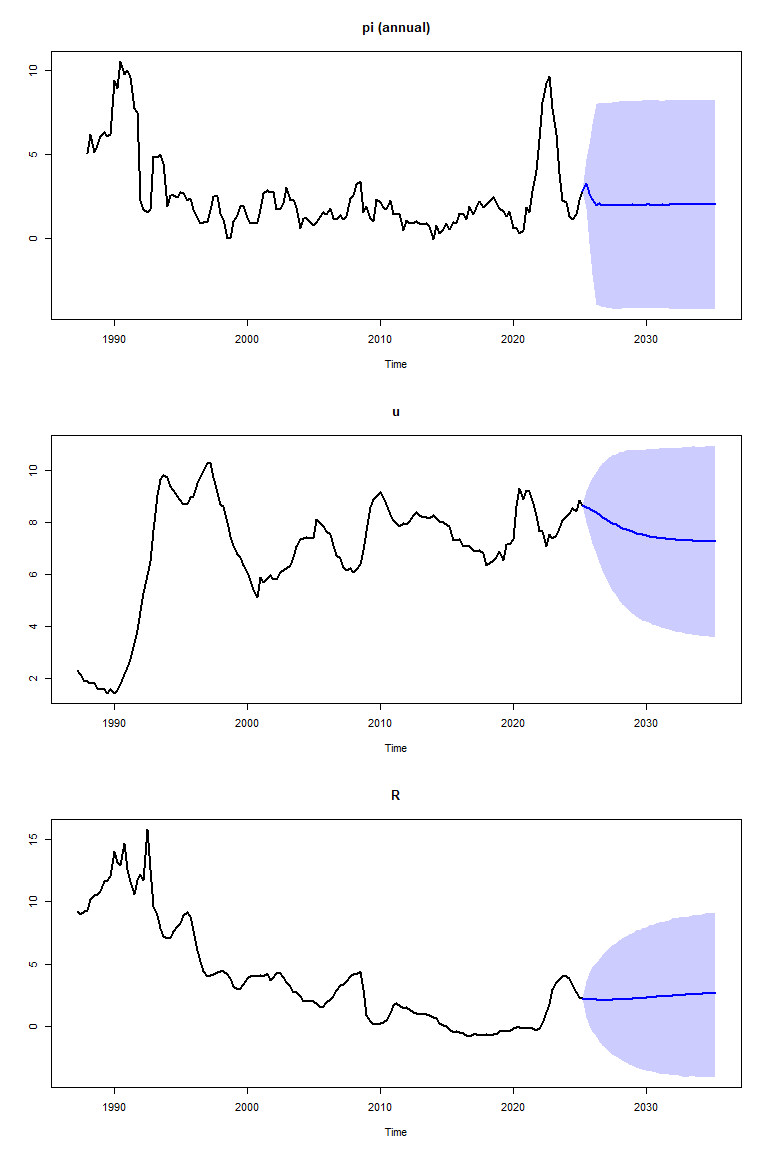
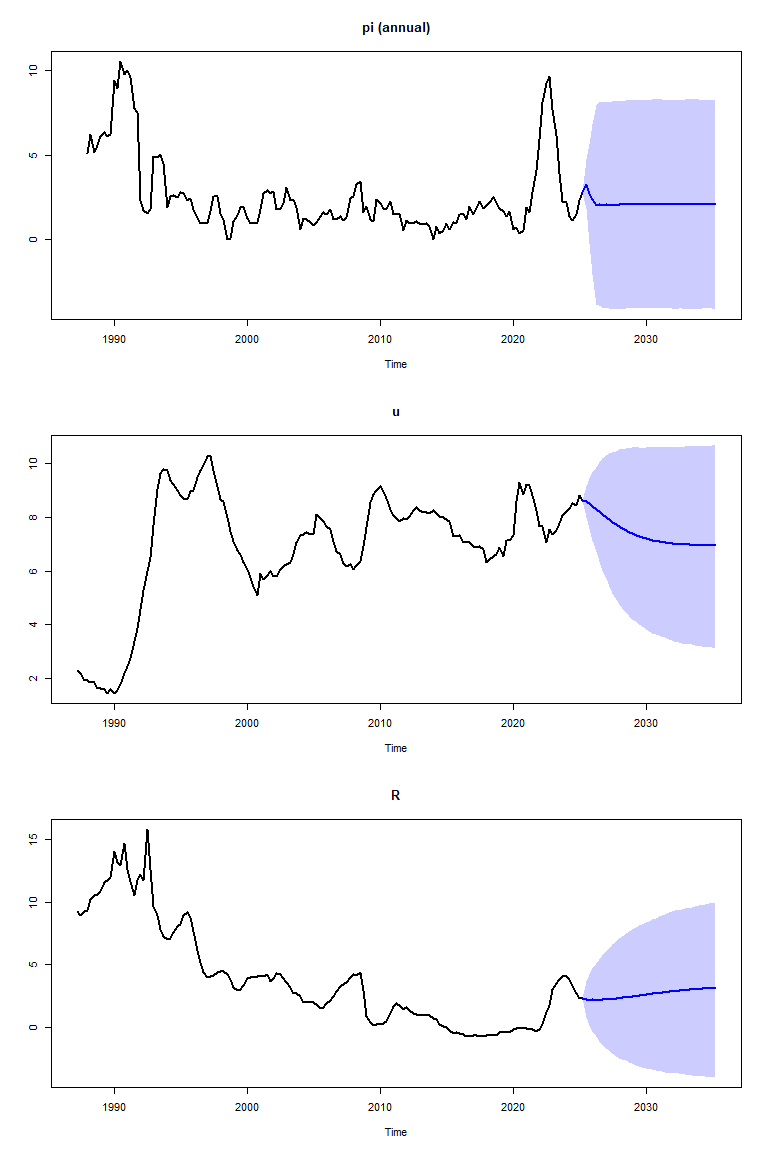
sdad

diff --git a/README.md b/README.md
@@ -178,7 +178,7 @@ And now let us estimate the model (this will take some time).
 ``` r
 rstan_options(auto_write = TRUE)
 options(mc.cores=parallel::detectCores())
-#fit <- estimate(stan_data, n_chains=8, iter=10000, warmup=5000, H=H, X_pred=X_pred)
+fit <- estimate(stan_data, n_chains=8, iter=10000, warmup=5000, H=H, X_pred=X_pred)
 ```
 
 Note here ‘fit’ is a ‘stanfit’ object, so we can use the plot function
@@ -187,16 +187,20 @@ crisis/second regime) steady state of inflation (i.e. the posterior of
 the unconditional mean of post crisis inflation).
 
 ``` r
-#stan_dens(fit, pars = "Lambda[1,1]")
+stan_dens(fit, pars = "Lambda[1,1]")
 ```
+
+<img src="man/figures/README-unnamed-chunk-12-1.png" width="100%" />
 
 Now lets plot the forecasts along with a 95% prediction interval. Here I
 choose the mean of the posterior distribution as the actual
 forecast/point prediction, but the median is also possible.
 
 ``` r
-#plot_forecast(fit, Y, ci=0.95, fcst_type="mean")
+plot_forecast(fit, Y, ci=0.95, fcst_type="mean")
 ```
+
+<img src="man/figures/README-forecast_plot-1.png" width="100%" />
 
 The Steady-State BVAR model most often contains an inflation variable in
 the system, precisely for the reason that we usually have very
@@ -228,8 +232,10 @@ specify which index in Y belongs to the inflation variable.
 
 ``` r
 #the annualized quarterly inflation rate is transformed to annual inflation
-#plot_forecast(fit, Y, ci=0.95, fcst_type="mean", plot_annual_inf=TRUE, inf_idx=1)
+plot_forecast(fit, Y, ci=0.95, fcst_type="mean", plot_annual_inf=TRUE, inf_idx=1)
 ```
+
+<img src="man/figures/README-unnamed-chunk-13-1.png" width="100%" />
 
 Please note that for this to make sense, the inflation variable used in
 the model must be the annualized quarterly growth rate of some price
